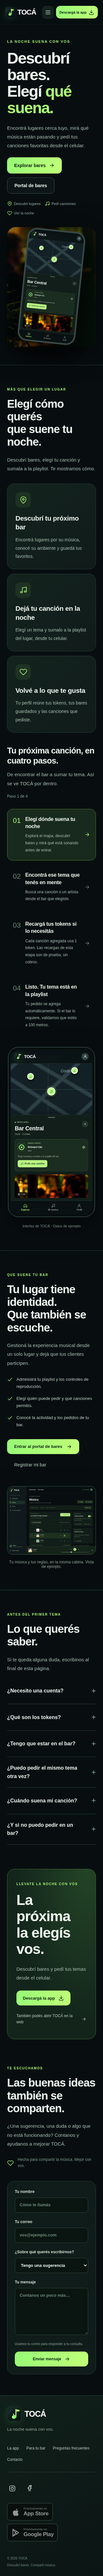
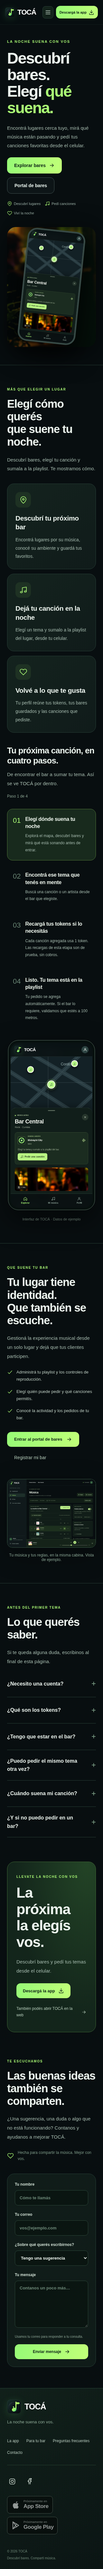
Crossfade homepage walkthrough photos and remove step arrows

diff --git a/web/landing.css b/web/landing.css
@@ -37,14 +37,15 @@
 .landing-stages>button{position:relative;overflow:hidden}
 .landing-stages>button:hover{background:#14221d}.landing-stage-number{font-family:'Outfit',sans-serif;font-size:22px;color:#6a8675;align-self:flex-start;padding-top:2px}
 .landing-stages>button[aria-selected=true] .landing-stage-number{color:var(--lime)}
-.landing-stage-number,.landing-stages>button>svg{transition:color .65s ease-in-out}
+.landing-stage-number{transition:color .65s ease-in-out}
 .landing-stages>button>span:nth-child(2){flex:1;min-width:0}.landing-stages strong{display:block;font-size:18px;font-weight:750;line-height:1.4;letter-spacing:-.3px;color:#eef6ed}
-.landing-stages small{display:block;font-size:13px;line-height:1.8;color:var(--landing-muted);margin-top:8px}.landing-stages>button>svg{flex:none;color:#698671}.landing-stages>button[aria-selected=true]>svg{color:var(--lime)}
-.landing-screen-area{display:grid;place-items:center;min-width:0;background:radial-gradient(ellipse at center,#214a2b6b,transparent 69%)}
-.landing-screen-area figure{margin:0;width:min(100%,294px)}
-.landing-screen-phone{padding:7px;border:1px solid #5c7364;background:#07100e;border-radius:32px;overflow:hidden;box-shadow:0 30px 80px #0008;line-height:0}
+.landing-stages small{display:block;font-size:13px;line-height:1.8;color:var(--landing-muted);margin-top:8px}
+.landing-screen-area{display:grid;grid-template-columns:minmax(0,1fr);justify-items:center;align-content:center;gap:20px;min-width:0;background:radial-gradient(ellipse at center,#214a2b6b,transparent 69%)}
+.landing-screen-phone{display:grid;grid-template-columns:minmax(0,1fr);width:min(100%,294px);padding:7px;border:1px solid #5c7364;background:#07100e;border-radius:32px;overflow:hidden;isolation:isolate;box-shadow:0 30px 80px #0008;line-height:0}
+.landing-screen-panel{grid-area:1/1;margin:0;min-width:0;opacity:0;visibility:hidden;pointer-events:none;z-index:0;transition:opacity .65s ease-in-out,visibility 0s linear .65s}
+.landing-screen-panel.is-active{opacity:1;visibility:visible;pointer-events:auto;z-index:1;transition-delay:0s,0s}
 .landing-screen-phone img{display:block;width:100%;height:auto;border-radius:25px}
-.landing-screen-area figcaption{margin-top:20px;text-align:center;font-size:11px;color:#80978a;line-height:1.6}
+.landing-screen-area .landing-screen-caption{max-width:294px;margin:0;text-align:center;font-size:11px;color:#80978a;line-height:1.6}
 .landing-owners{display:grid;grid-template-columns:minmax(0,.9fr) minmax(0,1.1fr);gap:70px;align-items:center;border-top:1px solid var(--landing-line)}
 .landing-owners h2{font-size:clamp(32px,3.5vw,46px)}.landing-owners p{max-width:440px}
 .landing-owners ul{padding:0;margin:25px 0 32px;list-style:none;display:grid;gap:15px}.landing-owners li{display:flex;gap:11px;align-items:start;font-size:13px;line-height:1.7;color:#c0d0c5}.landing-owners li svg{color:var(--lime);flex:none;margin-top:2px}
@@ -80,6 +81,6 @@
 .landing-expanded :is(a,button,summary):focus-visible,.landing-download-dialog :is(a,button):focus-visible{outline:2px solid var(--lime);outline-offset:5px;border-radius:7px}
 .landing-expanded h1:focus,.landing-download-page h1:focus{outline:none}
 @media(max-width:1000px){.landing-expanded .toca-landing-header nav{gap:16px}.landing-expanded .toca-hero-copy h1{font-size:56px}.landing-expanded .toca-landing-hero{gap:25px}.landing-how-grid{gap:35px}.landing-owners{gap:35px}.landing-contact{gap:38px}.landing-download{margin:20px 24px 45px;padding:45px}.landing-faq{gap:40px}.landing-benefits article{padding:25px 22px}.landing-footer-top{flex-wrap:wrap}}
-@media(max-width:760px){.landing-expanded .toca-landing-header{height:76px;padding:0 16px;gap:10px}.landing-expanded .toca-landing-header>.toca-brand{font-size:22px;padding:0;gap:8px}.landing-expanded .toca-landing-header .toca-brand img{width:30px;height:30px}.landing-expanded .toca-landing-header .toca-brand strong{font-size:22px}.landing-header-actions{gap:8px}.landing-menu-toggle{display:grid;place-items:center;flex:none;width:34px;height:38px;padding:0;border:1px solid #294138;border-radius:9px;background:#13221b;color:#d2e3d6;cursor:pointer}.landing-expanded .toca-landing-header .toca-btn{font-size:11px;padding:10px 11px;min-height:39px;gap:6px}.landing-expanded .toca-landing-header nav{display:none;position:absolute;top:calc(100% + 14px);right:0;width:min(250px,calc(100vw - 32px));padding:9px;border:1px solid #34503e;border-radius:14px;background:#101e18;box-shadow:0 16px 40px #0008;font-size:14px}.landing-expanded .toca-landing-header.is-menu-open nav{display:grid;gap:3px}.landing-expanded .toca-landing-header nav a{display:block;padding:12px 14px;border-radius:9px}.landing-expanded .toca-landing-header nav a:hover{background:#1c3021}.landing-walkthrough{margin-top:40px}.landing-walkthrough h3{font-size:26px}.landing-expanded .toca-landing-hero{padding:46px 22px 55px;min-height:0;grid-template-columns:minmax(0,1fr);gap:35px}.landing-expanded .toca-hero-copy h1{font-size:49px;letter-spacing:-2px}.landing-expanded .toca-hero-copy>p{font-size:15px}.landing-expanded .toca-trust{gap:13px;font-size:10px}.landing-section{padding:65px 22px;scroll-margin-top:96px}.landing-section h2{font-size:35px;letter-spacing:-1.1px}.landing-section-heading{margin-bottom:32px}.landing-benefits{grid-template-columns:minmax(0,1fr);gap:14px}.landing-benefits article{padding:25px}.landing-benefits article>span{margin-bottom:19px}.landing-how-grid,.landing-owners,.landing-contact,.landing-faq{grid-template-columns:minmax(0,1fr);gap:36px}.landing-stages>button{gap:14px;padding:20px 17px}.landing-stages strong{font-size:16px}.landing-stages small{font-size:12px}.landing-screen-area figure{width:270px}.landing-owners figure{margin-top:5px}.landing-download{grid-template-columns:1fr;margin:10px 22px 15px;padding:36px 28px;border-radius:23px;gap:28px}.landing-download h2{font-size:45px}.landing-download-art{display:none}.landing-contact{padding-top:65px;padding-bottom:65px}#landing-contact-form{padding:23px;gap:19px}.landing-form-row{grid-template-columns:minmax(0,1fr);gap:19px}.landing-form-end{flex-direction:column;align-items:stretch;gap:15px}.landing-form-end small{max-width:none}.landing-form-end .toca-btn{justify-content:center}.landing-contact-note{margin-top:25px}.landing-faq .landing-section-heading{margin:0}.landing-footer{padding:35px 22px 25px}.landing-footer-top{display:block;padding-bottom:28px}.landing-footer nav{gap:15px 23px;margin-top:22px}.landing-footer-bottom{align-items:flex-start;flex-direction:column;gap:25px}.landing-footer-bottom .landing-store-badges{justify-content:flex-start;gap:10px}.landing-store{min-width:142px;padding:8px 11px}.landing-store strong{font-size:17px}.landing-footer-legal{flex-direction:column;gap:5px}.landing-download-dialog{padding-left:22px;padding-right:22px}.landing-download-dialog .landing-store{min-width:130px}.landing-download-dialog .landing-store strong{font-size:16px}.landing-download-dialog .landing-store-badges{gap:8px}.landing-download-dialog .landing-store>svg{width:24px}}
+@media(max-width:760px){.landing-expanded .toca-landing-header{height:76px;padding:0 16px;gap:10px}.landing-expanded .toca-landing-header>.toca-brand{font-size:22px;padding:0;gap:8px}.landing-expanded .toca-landing-header .toca-brand img{width:30px;height:30px}.landing-expanded .toca-landing-header .toca-brand strong{font-size:22px}.landing-header-actions{gap:8px}.landing-menu-toggle{display:grid;place-items:center;flex:none;width:34px;height:38px;padding:0;border:1px solid #294138;border-radius:9px;background:#13221b;color:#d2e3d6;cursor:pointer}.landing-expanded .toca-landing-header .toca-btn{font-size:11px;padding:10px 11px;min-height:39px;gap:6px}.landing-expanded .toca-landing-header nav{display:none;position:absolute;top:calc(100% + 14px);right:0;width:min(250px,calc(100vw - 32px));padding:9px;border:1px solid #34503e;border-radius:14px;background:#101e18;box-shadow:0 16px 40px #0008;font-size:14px}.landing-expanded .toca-landing-header.is-menu-open nav{display:grid;gap:3px}.landing-expanded .toca-landing-header nav a{display:block;padding:12px 14px;border-radius:9px}.landing-expanded .toca-landing-header nav a:hover{background:#1c3021}.landing-walkthrough{margin-top:40px}.landing-walkthrough h3{font-size:26px}.landing-expanded .toca-landing-hero{padding:46px 22px 55px;min-height:0;grid-template-columns:minmax(0,1fr);gap:35px}.landing-expanded .toca-hero-copy h1{font-size:49px;letter-spacing:-2px}.landing-expanded .toca-hero-copy>p{font-size:15px}.landing-expanded .toca-trust{gap:13px;font-size:10px}.landing-section{padding:65px 22px;scroll-margin-top:96px}.landing-section h2{font-size:35px;letter-spacing:-1.1px}.landing-section-heading{margin-bottom:32px}.landing-benefits{grid-template-columns:minmax(0,1fr);gap:14px}.landing-benefits article{padding:25px}.landing-benefits article>span{margin-bottom:19px}.landing-how-grid,.landing-owners,.landing-contact,.landing-faq{grid-template-columns:minmax(0,1fr);gap:36px}.landing-stages>button{gap:14px;padding:20px 17px}.landing-stages strong{font-size:16px}.landing-stages small{font-size:12px}.landing-screen-area .landing-screen-phone{width:min(100%,270px)}.landing-owners figure{margin-top:5px}.landing-download{grid-template-columns:1fr;margin:10px 22px 15px;padding:36px 28px;border-radius:23px;gap:28px}.landing-download h2{font-size:45px}.landing-download-art{display:none}.landing-contact{padding-top:65px;padding-bottom:65px}#landing-contact-form{padding:23px;gap:19px}.landing-form-row{grid-template-columns:minmax(0,1fr);gap:19px}.landing-form-end{flex-direction:column;align-items:stretch;gap:15px}.landing-form-end small{max-width:none}.landing-form-end .toca-btn{justify-content:center}.landing-contact-note{margin-top:25px}.landing-faq .landing-section-heading{margin:0}.landing-footer{padding:35px 22px 25px}.landing-footer-top{display:block;padding-bottom:28px}.landing-footer nav{gap:15px 23px;margin-top:22px}.landing-footer-bottom{align-items:flex-start;flex-direction:column;gap:25px}.landing-footer-bottom .landing-store-badges{justify-content:flex-start;gap:10px}.landing-store{min-width:142px;padding:8px 11px}.landing-store strong{font-size:17px}.landing-footer-legal{flex-direction:column;gap:5px}.landing-download-dialog{padding-left:22px;padding-right:22px}.landing-download-dialog .landing-store{min-width:130px}.landing-download-dialog .landing-store strong{font-size:16px}.landing-download-dialog .landing-store-badges{gap:8px}.landing-download-dialog .landing-store>svg{width:24px}}
 @media(max-width:760px){.landing-walkthrough>.landing-walkthrough-heading{align-items:flex-start;flex-direction:column;gap:18px}.landing-walkthrough-controls{width:100%;justify-content:space-between}}
-@media(prefers-reduced-motion:reduce){.landing-stages>button,.landing-stage-number,.landing-stages>button>svg,.landing-faq summary>span{transition:none}}
+@media(prefers-reduced-motion:reduce){.landing-stages>button,.landing-stage-number,.landing-screen-panel,.landing-faq summary>span{transition:none}}

diff --git a/web/sw.js b/web/sw.js
@@ -1,4 +1,4 @@
-const CACHE="toca-shell-a14b97f708998408";const SHELL=["/", "/index.html", "/manifest.webmanifest", "/assets/icon.svg", "/styles.css", "/toca.css?v=admin-width-1", "/toca-admin-clean.css?v=1735", "/toca-dashboard-controls.css?v=1737", "/toca-mibar-v174.css?v=174", "/toca-hours-v175.css?v=176", "/toca-v180.css?v=180", "/toca-map-credits-v181.css?v=181", "/toca-location-v184.css?v=184", "/toca-v184.css?v=184", "/toca-v185.css?v=185", "/toca-location-v1810.css?v=1810", "/toca-description-v1811.css?v=1811", "/toca-artwork-v1813.css?v=1813", "/toca-now-v1816.css?v=1816", "/toca-playlist-v1820.css?v=1820", "/toca-playlist-scroll-v1821.css?v=1821", "/toca-how-v1823.css?v=1823", "/toca-customer-v1826.css?v=1826", "/toca-presence-v1827.css?v=1827", "/toca-access-layout-v1829.css?v=1829", "/toca-cleanup-v1830.css?v=1830", "/toca-mi-bar-cards-v1839.css?v=1839", "/toca-spacing-v1840.css?v=1840", "/toca-profile-v1841.css?v=1841", "/toca-map-hover-v1845.css?v=1845", "/toca-google-v1847.css?v=1847", "/admin-profile.css?v=1", "/account.css?v=1", "/music-cabina.css?v=number-heading-1", "/venue-import.css?v=bio-hours-1", "/venue-onboarding.css?v=1", "/venue-profile.css?v=admin-width-1", "/venue-gallery.css?v=1", "/customer-wallet.css?v=brand-colors-3", "/bar-dashboard.css?v=1", "/map-place-panel.css?v=5", "/landing.css?v=steps-6", "/config.js?v=marketing-1", "/assets/qr.js", "/toca-hours-v175.js?v=176", "/request-sync.js?v=redirect-2", "/app.js?v=resume-after-topup-3", "/map-place-panel.js?v=5", "/toca-map-credits-v181.js?v=181", "/toca-ui.js?v=landing-3", "/bar-dashboard.js?v=1", "/venue-gallery.js?v=1", "/customer-wallet.js?v=resume-after-topup-2", "/toca-customer-v1826.js?v=account-layout-2", "/live-music.js?v=1816", "/venue-location.js?v=onboarding-1", "/toca-location-v1828.js?v=1828", "/toca-v17.js?v=venue-gallery-1", "/toca-v1738.js?v=1738", "/toca-v1739.js?v=1739", "/toca-artwork-v1813.js?v=1813", "/toca-now-v1816.js?v=1816", "/toca-playlist-v1820.js?v=1821", "/toca-presence-v1827.js?v=presence-recovery-1", "/toca-admin-access-v1829.js?v=distance-1", "/toca-cleanup-v1830.js?v=1830", "/toca-mi-bar-cards-v1839.js?v=1839", "/toca-profile-v1841.js?v=tokens-1", "/toca-google-v1847.js?v=1847b", "/account.js?v=2", "/map-loader.js?v=distance-map-1", "/landing.js?v=covers-7", "/runtime.js?v=3", "/admin-profile.js?v=1", "/bio-hours.js?v=1", "/venue-import.js?v=profile-sections-1", "/music-cabina.js?v=number-heading-1", "/music-cabina-drag.js?v=drag-2", "/music-edit-intent.js?v=1", "/music-playback.js?v=1", "/admin-music.js?v=playlist-edits-3", "/venue-onboarding.js?v=profile-sections-1", "/venue-profile.js?v=hours-2", "/assets/toca-home-map.svg", "/assets/venues/bar-1.webp", "/assets/venues/bar-2.webp", "/assets/venues/bar-3.webp", "/assets/venues/bar-4.webp", "/assets/venues/bar-5.webp", "/assets/venues/bar-6.webp", "/assets/landing/explore.png", "/assets/landing/search.png", "/assets/landing/tokens.png", "/assets/landing/success.png", "/assets/landing/admin-music.png?v=covers-2"];
+const CACHE="toca-shell-73e5ee3a751f71ba";const SHELL=["/", "/index.html", "/manifest.webmanifest", "/assets/icon.svg", "/styles.css", "/toca.css?v=admin-width-1", "/toca-admin-clean.css?v=1735", "/toca-dashboard-controls.css?v=1737", "/toca-mibar-v174.css?v=174", "/toca-hours-v175.css?v=176", "/toca-v180.css?v=180", "/toca-map-credits-v181.css?v=181", "/toca-location-v184.css?v=184", "/toca-v184.css?v=184", "/toca-v185.css?v=185", "/toca-location-v1810.css?v=1810", "/toca-description-v1811.css?v=1811", "/toca-artwork-v1813.css?v=1813", "/toca-now-v1816.css?v=1816", "/toca-playlist-v1820.css?v=1820", "/toca-playlist-scroll-v1821.css?v=1821", "/toca-how-v1823.css?v=1823", "/toca-customer-v1826.css?v=1826", "/toca-presence-v1827.css?v=1827", "/toca-access-layout-v1829.css?v=1829", "/toca-cleanup-v1830.css?v=1830", "/toca-mi-bar-cards-v1839.css?v=1839", "/toca-spacing-v1840.css?v=1840", "/toca-profile-v1841.css?v=1841", "/toca-map-hover-v1845.css?v=1845", "/toca-google-v1847.css?v=1847", "/admin-profile.css?v=1", "/account.css?v=1", "/music-cabina.css?v=number-heading-1", "/venue-import.css?v=bio-hours-1", "/venue-onboarding.css?v=1", "/venue-profile.css?v=admin-width-1", "/venue-gallery.css?v=1", "/customer-wallet.css?v=brand-colors-3", "/bar-dashboard.css?v=1", "/map-place-panel.css?v=5", "/landing.css?v=photo-fade-7", "/config.js?v=marketing-1", "/assets/qr.js", "/toca-hours-v175.js?v=176", "/request-sync.js?v=redirect-2", "/app.js?v=resume-after-topup-3", "/map-place-panel.js?v=5", "/toca-map-credits-v181.js?v=181", "/toca-ui.js?v=landing-3", "/bar-dashboard.js?v=1", "/venue-gallery.js?v=1", "/customer-wallet.js?v=resume-after-topup-2", "/toca-customer-v1826.js?v=account-layout-2", "/live-music.js?v=1816", "/venue-location.js?v=onboarding-1", "/toca-location-v1828.js?v=1828", "/toca-v17.js?v=venue-gallery-1", "/toca-v1738.js?v=1738", "/toca-v1739.js?v=1739", "/toca-artwork-v1813.js?v=1813", "/toca-now-v1816.js?v=1816", "/toca-playlist-v1820.js?v=1821", "/toca-presence-v1827.js?v=presence-recovery-1", "/toca-admin-access-v1829.js?v=distance-1", "/toca-cleanup-v1830.js?v=1830", "/toca-mi-bar-cards-v1839.js?v=1839", "/toca-profile-v1841.js?v=tokens-1", "/toca-google-v1847.js?v=1847b", "/account.js?v=2", "/map-loader.js?v=distance-map-1", "/landing.js?v=photo-fade-8", "/runtime.js?v=3", "/admin-profile.js?v=1", "/bio-hours.js?v=1", "/venue-import.js?v=profile-sections-1", "/music-cabina.js?v=number-heading-1", "/music-cabina-drag.js?v=drag-2", "/music-edit-intent.js?v=1", "/music-playback.js?v=1", "/admin-music.js?v=playlist-edits-3", "/venue-onboarding.js?v=profile-sections-1", "/venue-profile.js?v=hours-2", "/assets/toca-home-map.svg", "/assets/venues/bar-1.webp", "/assets/venues/bar-2.webp", "/assets/venues/bar-3.webp", "/assets/venues/bar-4.webp", "/assets/venues/bar-5.webp", "/assets/venues/bar-6.webp", "/assets/landing/explore.png", "/assets/landing/search.png", "/assets/landing/tokens.png", "/assets/landing/success.png", "/assets/landing/admin-music.png?v=covers-2"];
 self.addEventListener('install',e=>e.waitUntil(caches.open(CACHE).then(c=>c.addAll(SHELL)).then(()=>self.skipWaiting())));
 self.addEventListener('activate',e=>e.waitUntil(caches.keys().then(keys=>Promise.all(keys.filter(k=>k.startsWith('toca-shell-')&&k!==CACHE).map(k=>caches.delete(k)))).then(()=>self.clients.claim())));
 self.addEventListener('fetch',e=>{const u=new URL(e.request.url);if(e.request.method!=='GET'||u.origin!==location.origin||u.pathname.startsWith('/api/'))return;

diff --git a/web/landing.js b/web/landing.js
@@ -21,7 +21,17 @@
   ['Recargá tus tokens si lo necesitás','Cada canción agregada usa 1 token. Las recargas de esta etapa son de prueba, sin cobros.','tokens.png'],
   ['Listo. Tu tema está en la playlist','Tu pedido se agrega automáticamente. Si el bar lo requiere, validamos que estés a 100 metros.','success.png']
  ];
- function walkthrough(){return `<div class="landing-walkthrough"><div class="landing-section-heading landing-walkthrough-heading"><div><h3>Tu próxima canción, en cuatro pasos.</h3><p>De encontrar el bar a sumar tu tema. Así se ve TOCÁ por dentro.</p></div><div class="landing-walkthrough-controls"><span data-stage-count>Paso 1 de 4</span></div></div><div class="landing-how-grid"><div class="landing-stages" role="tablist" aria-label="Cómo funciona TOCÁ" aria-orientation="vertical">${stages.map(([title,copy],i)=>`<button type="button" role="tab" id="landing-stage-${i}" aria-controls="landing-screen-${i}" aria-selected="${i===0}" tabindex="${i===0?'0':'-1'}" data-landing-stage="${i}"><span class="landing-stage-number">0${i+1}</span><span><strong>${title}</strong><small>${copy}</small></span>${iconSvg('arrow',18)}</button>`).join('')}</div><div class="landing-screen-area">${stages.map(([title,,file],i)=>`<figure id="landing-screen-${i}" role="tabpanel" aria-labelledby="landing-stage-${i}" ${i?'hidden':''}><div class="landing-screen-phone"><img src="/assets/landing/${file}" width="390" height="780" loading="lazy" alt="Pantalla de TOCÁ: ${esc(title)}"></div><figcaption>Interfaz de TOCÁ · Datos de ejemplo</figcaption></figure>`).join('')}</div></div></div>`;}
+ function walkthrough(){return `
+  <div class="landing-walkthrough">
+   <div class="landing-section-heading landing-walkthrough-heading"><div><h3>Tu próxima canción, en cuatro pasos.</h3><p>De encontrar el bar a sumar tu tema. Así se ve TOCÁ por dentro.</p></div><div class="landing-walkthrough-controls"><span data-stage-count>Paso 1 de 4</span></div></div>
+   <div class="landing-how-grid">
+    <div class="landing-stages" role="tablist" aria-label="Cómo funciona TOCÁ" aria-orientation="vertical">${stages.map(([title,copy],i)=>`<button type="button" role="tab" id="landing-stage-${i}" aria-controls="landing-screen-${i}" aria-selected="${i===0}" tabindex="${i===0?'0':'-1'}" data-landing-stage="${i}"><span class="landing-stage-number">0${i+1}</span><span><strong>${title}</strong><small>${copy}</small></span></button>`).join('')}</div>
+    <div class="landing-screen-area">
+     <div class="landing-screen-phone" aria-describedby="landing-screen-caption">${stages.map(([title,,file],i)=>`<figure id="landing-screen-${i}" class="landing-screen-panel${i===0?' is-active':''}" role="tabpanel" aria-labelledby="landing-stage-${i}" aria-hidden="${i!==0}" ${i?'inert':''}><img src="/assets/landing/${file}" width="390" height="780" loading="lazy" alt="Pantalla de TOCÁ: ${esc(title)}"></figure>`).join('')}</div>
+     <p id="landing-screen-caption" class="landing-screen-caption">Interfaz de TOCÁ · Datos de ejemplo</p>
+    </div>
+   </div>
+  </div>`;}
  const previousLanding=tocaLanding;
  tocaLanding=function(){
   previousLanding();const root=document.querySelector('.toca-landing');if(!root)return;
@@ -52,7 +62,7 @@
   requestAnimationFrame(()=>scrollSection(route().params.get('section'),false));
  };
  function scrollSection(id,smooth=true){if(id==='como-funciona')id='la-app';if(!sections.includes(id))return;const target=document.getElementById(id);if(!target)return;target.scrollIntoView({behavior:smooth&&!matchMedia('(prefers-reduced-motion:reduce)').matches?'smooth':'instant',block:'start'});}
- function activateStage(root,index){root.querySelectorAll('[data-landing-stage]').forEach(button=>{const selected=Number(button.dataset.landingStage)===index;button.setAttribute('aria-selected',String(selected));button.tabIndex=selected?0:-1;});root.querySelectorAll('[role="tabpanel"]').forEach((panel,i)=>panel.hidden=i!==index);stagePlayers.get(root)?.select(index);}
+ function activateStage(root,index){root.querySelectorAll('[data-landing-stage]').forEach(button=>{const selected=Number(button.dataset.landingStage)===index;button.setAttribute('aria-selected',String(selected));button.tabIndex=selected?0:-1;});root.querySelectorAll('[role="tabpanel"]').forEach((panel,i)=>{const selected=i===index;panel.classList.toggle('is-active',selected);panel.setAttribute('aria-hidden',String(!selected));panel.inert=!selected;});stagePlayers.get(root)?.select(index);}
  function startWalkthrough(root){
   const grid=root.querySelector('.landing-how-grid'),counter=root.querySelector('[data-stage-count]');
   const motion=matchMedia('(prefers-reduced-motion:reduce)'),duration=5000;

diff --git a/web/index.html b/web/index.html
@@ -58,7 +58,7 @@
   <link rel="stylesheet" href="/customer-wallet.css?v=brand-colors-3" />
   <link rel="stylesheet" href="/bar-dashboard.css?v=1" />
   <link rel="stylesheet" href="/map-place-panel.css?v=5" />
-  <link rel="stylesheet" href="/landing.css?v=steps-6" />
+  <link rel="stylesheet" href="/landing.css?v=photo-fade-7" />
 </head>
 <body>
   <div id="app"></div>
@@ -92,7 +92,7 @@
   <script src="/toca-google-v1847.js?v=1847b" defer></script>
   <script src="/account.js?v=2" defer></script>
   <script src="/map-loader.js?v=distance-map-1" defer></script>
-  <script src="/landing.js?v=covers-7" defer></script>
+  <script src="/landing.js?v=photo-fade-8" defer></script>
   <script src="/runtime.js?v=3" defer></script>
   <script src="/admin-profile.js?v=1" defer></script>
   <script src="/bio-hours.js?v=1" defer></script>

diff --git a/scripts/test-landing-autoplay.py b/scripts/test-landing-autoplay.py
@@ -27,6 +27,7 @@ try:
    page.route('http://localhost:8080/**',lambda route:route.fulfill(content_type='application/json',body='[]',headers={'Access-Control-Allow-Origin':'*'}))
    page.goto(BASE+'/#/');expect(page.locator('[data-stage-count]')).to_have_text('Paso 1 de 4')
    assert not page.locator('.landing-stage-progress,[role=progressbar],[data-stage-playback]').count()
+   assert not page.locator('[data-landing-stage] svg').count(),'Step arrows must be removed'
    return context,page,errors
   def active(page,index):return page.locator(f'[data-landing-stage="{index}"]')
   def expect_step(page,index):
@@ -53,13 +54,25 @@ try:
    assert all(4800<=interval<=6200 for interval in intervals),intervals
    assert page.locator('[data-landing-stage="0"]').evaluate("node=>node.matches(':hover')&&document.activeElement===node")
    print('PASS no progress bars; hovered and focused steps advance every five seconds through the full cycle:',[round(interval) for interval in intervals],flush=True)
-   page.wait_for_timeout(800);active(page,3).click();page.wait_for_timeout(150)
+   page.wait_for_timeout(800);phone_box=page.locator('.landing-screen-phone').bounding_box()
+   active(page,3).click();page.wait_for_timeout(150)
    alphas=page.evaluate(r"""()=>[0,3].map(index=>{const color=getComputedStyle(document.querySelector(`[data-landing-stage="${index}"]`)).borderTopColor;const parts=color.match(/rgba?\(([^)]+)\)/)[1].split(',');return parts.length===4?Number(parts[3]):1})""")
    assert all(0<alpha<1 for alpha in alphas),('Both outgoing and incoming borders must fade',alphas)
+   layers=page.evaluate("""()=>[0,3].map(index=>{const panel=document.querySelector('#landing-screen-'+index),style=getComputedStyle(panel),box=panel.getBoundingClientRect();return {opacity:Number(style.opacity),x:box.x,y:box.y,width:box.width,height:box.height,hidden:panel.getAttribute('aria-hidden'),inert:panel.inert}})""")
+   assert all(0<layer['opacity']<1 for layer in layers),('Both photos must crossfade',layers)
+   assert all(abs(layer['opacity']-alpha)<.08 for layer,alpha in zip(layers,alphas)),('Photos and borders must fade together',layers,alphas)
+   assert all(abs(layers[0][key]-layers[1][key])<1 for key in ['x','y','width','height']),'Photos must overlap within the same frame'
+   assert layers[0]['hidden']=='true' and layers[0]['inert'] and layers[1]['hidden']=='false' and not layers[1]['inert']
    page.wait_for_timeout(700)
    assert active(page,0).evaluate("node=>getComputedStyle(node).borderTopColor")=='rgba(0, 0, 0, 0)'
+   assert page.locator('#landing-screen-0').evaluate("node=>getComputedStyle(node).visibility")=='hidden'
+   assert abs(page.locator('.landing-screen-phone').bounding_box()['height']-phone_box['height'])<1
    page.wait_for_timeout(3500);expect_step(page,3);expect_step(page,0)
-   print('PASS outgoing/incoming border fade and manual selection followed by automatic advance; no pause control',flush=True)
+   print('PASS synchronized photo/border crossfade, stable frame, accessible panel selection and five-second advance',flush=True)
+   for index in [1,2,0]:active(page,index).click();page.wait_for_timeout(80)
+   page.wait_for_timeout(800)
+   assert page.locator('.landing-screen-panel').evaluate_all("nodes=>nodes.every((node,index)=>Number(getComputedStyle(node).opacity)===(index===0?1:0)&&node.inert===(index!==0)&&node.getAttribute('aria-hidden')===String(index!==0))"),'Rapid selections must settle on the last chosen photo'
+   print('PASS rapid manual selections do not leave overlapping or stale photos',flush=True)
    page.evaluate("Object.defineProperty(document,'hidden',{configurable:true,get:()=>true});document.dispatchEvent(new Event('visibilitychange'))")
    page.wait_for_timeout(5300);expect_step(page,0)
    page.evaluate("Object.defineProperty(document,'hidden',{configurable:true,get:()=>false});document.dispatchEvent(new Event('visibilitychange'))")
@@ -73,8 +86,10 @@ try:
   else:
    context,page,errors=setup(viewport=dict(width=390,height=900),is_mobile=True,has_touch=True)
    page.locator('.landing-screen-area').scroll_into_view_if_needed();expect_step(page,1)
-   active(page,3).tap()
-   page.wait_for_timeout(4400);expect_step(page,3);expect_step(page,0)
+   page.wait_for_timeout(800);active(page,3).tap();page.wait_for_timeout(150)
+   opacities=page.evaluate("[1,3].map(index=>Number(getComputedStyle(document.querySelector('#landing-screen-'+index)).opacity))")
+   assert all(0<opacity<1 for opacity in opacities),('Mobile photos must crossfade',opacities)
+   page.wait_for_timeout(4250);expect_step(page,3);expect_step(page,0)
    active(page,2).tap();expect_step(page,3)
    assert not errors,errors;context.close()
    print('PASS mobile auto advance and manual touch selection without a pause control',flush=True)
@@ -83,6 +98,7 @@ try:
    page.wait_for_timeout(5300);expect_step(page,0)
    active(page,2).click();expect_step(page,2)
    assert active(page,2).evaluate("node=>getComputedStyle(node).transitionDuration")=='0s'
+   assert page.locator('#landing-screen-2').evaluate("node=>getComputedStyle(node).transitionDuration==='0s'&&getComputedStyle(node).opacity==='1'")
    page.wait_for_timeout(5300);expect_step(page,2)
    page.emulate_media(reduced_motion='no-preference');expect_step(page,3)
    assert not errors,errors;context.close()

diff --git a/scripts/test-landing.py b/scripts/test-landing.py
@@ -51,8 +51,10 @@ try:
    page.evaluate("location.hash='/?section=como-funciona'");page.wait_for_timeout(200)
    assert page.locator('#la-app').bounding_box()['y']>=header.bounding_box()['height']-2,'Existing how-it-works links must reach the combined section'
    tabs=page.locator('[data-landing-stage]')
+   assert not tabs.locator('svg').count(),'Walkthrough steps must not have arrows'
    for i in range(4):
     tabs.nth(i).click();expect(tabs.nth(i)).to_have_attribute('aria-selected','true');expect(page.locator(f'#landing-screen-{i}')).to_be_visible()
+    expect(page.locator(f'#landing-screen-{i}')).to_have_attribute('aria-hidden','false')
     image=page.locator(f'#landing-screen-{i} img');page.wait_for_function('(src)=>Array.from(document.images).some(i=>i.src.endsWith(src)&&i.naturalWidth>0)',arg=image.get_attribute('src'))
    tabs.last.press('Home');expect(tabs.first).to_have_attribute('aria-selected','true')
    assert not page.locator('[data-stage-playback]').count()
@@ -83,7 +85,7 @@ try:
    ratio=owner_image.evaluate('image=>image.naturalWidth/image.naturalHeight');box=owner_image.bounding_box()
    assert abs(box['width']/box['height']-ratio)<.01,'Venue preview must retain its natural proportions'
    form.locator('.landing-form-status').evaluate('(node)=>node.hidden=true')
-   tabs.first.click();page.mouse.move(0,0)
+   tabs.first.click();page.mouse.move(0,0);page.wait_for_timeout(700)
    page.evaluate('scrollTo(0,0)');page.wait_for_timeout(150)
    assert page.evaluate('document.documentElement.scrollWidth<=innerWidth'),width
    page.screenshot(path=str(OUT/f'inicio-{width}.png'),full_page=True)

diff --git a/docs/INICIO.md b/docs/INICIO.md
@@ -4,7 +4,7 @@ La página reúne la presentación, “La app” (beneficios y recorrido con cap
 
 Los enlaces de la cabecera y el pie llevan a secciones de la misma página mediante el router existente: `/#/?section=la-app`, `/#/?section=para-bares` y `/#/?section=contacto`. Los enlaces anteriores a `section=como-funciona` siguen llevando a “La app”. Funcionan al abrir un enlace directo y al usar atrás/adelante, y conservan el formulario mientras se navega entre secciones. La cabecera permanece visible; sus enlaces se agrupan a la derecha junto a “Descargá la app”. En celular se reúnen en un menú junto al mismo botón.
 
-El recorrido de cuatro pasos avanza automáticamente cada cinco segundos y vuelve al primero al terminar. Muestra el número de paso, sin barras de progreso ni botón de pausa. El borde y el fondo del paso saliente y entrante cambian suavemente durante 650 ms. El mouse y el foco no detienen el avance; elegir un paso manualmente reinicia los cinco segundos y continúa el recorrido. Se detiene al salir de la sección o al ocultar la pestaña. Al volver comienza un intervalo completo. Con movimiento reducido no hay fundido ni avance automático y los cuatro pasos siguen disponibles manualmente. El temporizador y el observador se eliminan al salir de inicio.
+El recorrido de cuatro pasos avanza automáticamente cada cinco segundos y vuelve al primero al terminar. Muestra el número de paso, sin barras de progreso ni botón de pausa. El borde, el fondo y las fotos del paso saliente y entrante cambian suavemente durante 650 ms. Las fotos se superponen dentro de un único marco para hacer el fundido sin saltos de tamaño. Los pasos no muestran flechas. El mouse y el foco no detienen el avance; elegir un paso manualmente reinicia los cinco segundos y continúa el recorrido. Se detiene al salir de la sección o al ocultar la pestaña. Al volver comienza un intervalo completo. Con movimiento reducido no hay fundido ni avance automático y los cuatro pasos siguen disponibles manualmente. El temporizador y el observador se eliminan al salir de inicio.
 
 ## Vista previa
 
@@ -75,7 +75,7 @@ Compose ejecuta las migraciones antes del API. Actualizar el navegador con `Cmd+
 Comprobaciones incluidas:
 
 - `scripts/test-landing.py`: escritorio y celulares de 390/320 px, anclas, historial, recorrido y teclado, imágenes cargadas, QR local, destinos iOS/Android y reintentos del formulario.
-- `scripts/test-landing-autoplay.py --mode desktop` y `--mode mobile`: duración real de cinco segundos, ciclo completo, avance con el mouse/foco sobre la sección, selección manual, pausas por visibilidad, touch, movimiento reducido, fundido de bordes y limpieza al navegar.
+- `scripts/test-landing-autoplay.py --mode desktop` y `--mode mobile`: duración real de cinco segundos, ciclo completo, avance con el mouse/foco sobre la sección, selección manual, pausas por visibilidad, touch, movimiento reducido, fundido de bordes/fotos, cambios rápidos de paso y limpieza al navegar.
 - `ContactInputTest.kt`: normalización, validación y campo trampa.
 - `scripts/integration/P1ServiceProbe.java`: persistencia, concurrencia, reintentos y notificaciones con transporte simulado, junto con las regresiones existentes.
 - `scripts/integration/http_contact_probe.py`: formulario real → API real → PostgreSQL de prueba, validación HTTP, idempotencia, límites y rechazo de cabeceras de proxy no confiables. Requiere las variables y protecciones de base de prueba de `http_auth_probe.py`; `TOCA_TEST_WEB_URL` habilita el envío desde Chromium.
